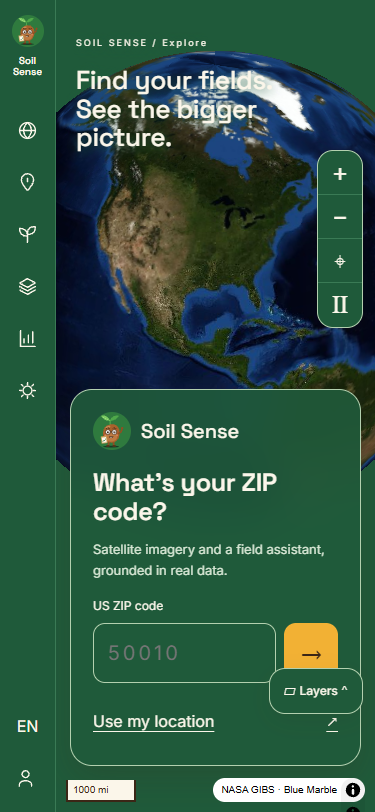
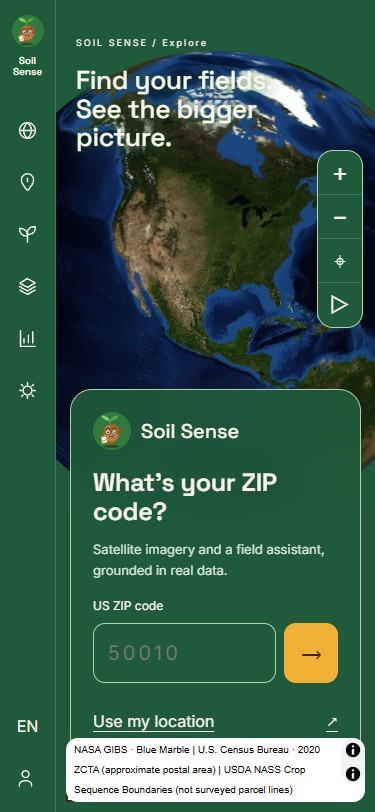
fix: harden explore navigation, demo translations, and reduced motion

diff --git a/web/src/components/explore/ExploreMap.tsx b/web/src/components/explore/ExploreMap.tsx
@@ -118,7 +118,7 @@ export function ExploreMap(props: Props) {
       const line = css.getPropertyValue("--color-on-data").trim() || "white";
       const selected = css.getPropertyValue("--color-accent").trim();
       const fill = css.getPropertyValue("--color-data").trim();
-      m.addSource("fields", { type: "geojson", data: empty });
+      m.addSource("fields", { type: "geojson", data: empty, attribution: 'USDA NASS Crop Sequence Boundaries (not surveyed parcel lines)' });
       m.addLayer({
         id: "field-fill",
         type: "fill",
@@ -147,7 +147,7 @@ export function ExploreMap(props: Props) {
           ],
         },
       });
-      m.addSource("zip", { type: "geojson", data: empty });
+      m.addSource("zip", { type: "geojson", data: empty, attribution: 'U.S. Census Bureau · 2020 ZCTA (approximate postal area)' });
       m.addLayer({
         id: "zip-line",
         type: "line",
@@ -172,6 +172,11 @@ export function ExploreMap(props: Props) {
       latest.current.onReady(m);
     });
     const stop = () => latest.current.onInteract();
+    const container = el.current;
+    container.addEventListener('keydown', stop);
+    const motion = window.matchMedia('(prefers-reduced-motion: reduce)');
+    const onMotion = () => { if (motion.matches) m.stop(); };
+    motion.addEventListener('change', onMotion);
     m.on("mousedown", stop);
     m.on("touchstart", stop);
     m.on("wheel", stop);
@@ -190,6 +195,8 @@ export function ExploreMap(props: Props) {
       }
     }, 2200);
     return () => {
+      container.removeEventListener('keydown', stop);
+      motion.removeEventListener('change', onMotion);
       resize.disconnect();
       clearInterval(spin);
       latest.current.onReady(null);
@@ -203,7 +210,7 @@ export function ExploreMap(props: Props) {
   useEffect(() => {
     const m = map.current;
     if (!m) return;
-    const apply = () => {
+    const apply = (animate = true) => {
       const p = props.location;
       const camera = p
         ? {
@@ -221,11 +228,15 @@ export function ExploreMap(props: Props) {
               right: window.innerWidth > 700 ? 400 : 0,
             },
           };
-      if (window.matchMedia("(prefers-reduced-motion: reduce)").matches)
+      if (!p || !animate || window.matchMedia("(prefers-reduced-motion: reduce)").matches)
         m.jumpTo(camera);
       else m.flyTo({ ...camera, duration: 2400, essential: false });
     };
     apply();
+    const breakpoint = window.matchMedia('(max-width: 700px)');
+    const onBreakpoint = () => { if (!props.location) apply(false); };
+    breakpoint.addEventListener('change', onBreakpoint);
+    return () => breakpoint.removeEventListener('change', onBreakpoint);
   }, [props.location]);
   useEffect(() => {
     const m = map.current;

diff --git a/web/src/Shell.explore.test.ts b/web/src/Shell.explore.test.ts
@@ -1,0 +1,22 @@
+// @vitest-environment happy-dom
+import { act, createElement } from 'react';
+import { createRoot } from 'react-dom/client';
+import { afterEach, expect, it, vi } from 'vitest';
+import { Shell } from './Shell';
+vi.mock('./auth',()=>({getMe:async()=>null,SIGNED_OUT_EVENT:'signed-out',signOut:async()=>{}}));
+vi.mock('./App',()=>({App:()=>createElement('div',{'data-testid':'existing-planner'},'Existing planner')}));
+vi.mock('./pages/ExplorePage',()=>({ExplorePage:()=>createElement('div',{'data-testid':'explore'},'Explore')}));
+Object.assign(globalThis,{IS_REACT_ACT_ENVIRONMENT:true});
+afterEach(()=>{vi.unstubAllGlobals();localStorage.clear();window.location.hash='';});
+it.each([{flag:false,hash:'#/',planner:true},{flag:true,hash:'#/',planner:false},{flag:true,hash:'#/planner',planner:true}])('gates the real Shell root for $flag at $hash',async({flag,hash,planner})=>{
+ window.location.hash=hash;
+ vi.stubGlobal('fetch',vi.fn().mockResolvedValue({ok:true,json:async()=>({exploreLanding:flag})}));
+ const el=document.createElement('div');document.body.append(el);const root=createRoot(el);
+ try{
+  await act(async()=>{root.render(createElement(Shell));await new Promise(r=>setTimeout(r,10));});
+  await act(async()=>{window.dispatchEvent(new Event('hashchange'));await new Promise(r=>setTimeout(r,10));});
+  expect(el.querySelector('[data-testid="existing-planner"]')!==null).toBe(planner);
+  expect(el.querySelector('[data-testid="explore"]')!==null).toBe(!planner);
+  expect(window.location.hash).toBe(flag&&hash==='#/'?'#/explore':hash);
+ }finally{await act(async()=>root.unmount());el.remove();}
+});

diff --git a/web/src/pages/DemoFarmsPage.tsx b/web/src/pages/DemoFarmsPage.tsx
@@ -3,6 +3,6 @@ import { ExploreRail } from '../components/explore/ExploreRail';
 import { useI18n } from '../i18n';
 import './explore.css';
 export function DemoFarmsPage(){
-  const {t}=useI18n();
-  return <main id="content" tabIndex={-1} className="demo-page"><ExploreRail/><div className="demo-content"><a href="#/explore">← {t('Back to globe')}</a><h1>{t('Explore a working field')}</h1><p>{t('Four example locations. Choose one to explore real imagery and available USDA boundaries.')}</p><div className="demo-grid">{DEMO_FARMS.map(f=><a className="demo-card" key={f.name} href={`#/explore?${new URLSearchParams({lat:String(f.lat),lon:String(f.lon),label:f.name})}`}><small>{f.lat.toFixed(4)}°, {f.lon.toFixed(4)}°</small><h2>{t(f.name as Parameters<typeof t>[0])}</h2><p>{t(f.note as Parameters<typeof t>[0])}</p><span>{t('Explore location')} →</span></a>)}</div></div></main>;
+  const {t,text}=useI18n();
+  return <main id="content" tabIndex={-1} className="demo-page"><ExploreRail/><div className="demo-content"><a href="#/explore">← {t('Back to globe')}</a><h1>{t('Explore a working field')}</h1><p>{t('Four example locations. Choose one to explore real imagery and available USDA boundaries.')}</p><div className="demo-grid">{DEMO_FARMS.map(f=><a className="demo-card" key={f.name} href={`#/explore?${new URLSearchParams({lat:String(f.lat),lon:String(f.lon),label:f.name})}`}><small>{f.lat.toFixed(4)}°, {f.lon.toFixed(4)}°</small><h2>{text(f.name)}</h2><p>{text(f.note)}</p><span>{t('Explore location')} →</span></a>)}</div></div></main>;
 }

diff --git a/web/src/pages/DemoFarmsPage.test.ts b/web/src/pages/DemoFarmsPage.test.ts
@@ -1,0 +1,21 @@
+// @vitest-environment happy-dom
+import { act, createElement } from 'react';
+import { createRoot } from 'react-dom/client';
+import { expect,it } from 'vitest';
+import { LanguageProvider, LANGUAGE_STORAGE_KEY } from '../i18n';
+import { DemoFarmsPage } from './DemoFarmsPage';
+Object.assign(globalThis,{IS_REACT_ACT_ENVIRONMENT:true});
+it.each(['en','es'] as const)('lists all four original farms with valid Explore links in %s',async language=>{
+ localStorage.setItem(LANGUAGE_STORAGE_KEY,language);
+ const el=document.createElement('div');document.body.append(el);const root=createRoot(el);
+ try{
+  await act(async()=>root.render(createElement(LanguageProvider,null,createElement(DemoFarmsPage))));
+  expect(el.querySelectorAll('.demo-card')).toHaveLength(4);
+  expect(el.textContent).toContain('Story County, Iowa');
+  for(const card of el.querySelectorAll<HTMLAnchorElement>('.demo-card')){
+   expect(card.hash).toMatch(/^#\/explore\?lat=/);
+   const params=new URLSearchParams(card.hash.split('?')[1]);expect(Number.isFinite(Number(params.get('lat')))).toBe(true);
+  }
+  expect(el.textContent).toContain(language==='es'?'secano':'rain-fed');
+ }finally{await act(async()=>root.unmount());el.remove();localStorage.clear();}
+});

diff --git a/web/src/i18n-explore.ts b/web/src/i18n-explore.ts
@@ -1,4 +1,8 @@
 export const exploreMessages = {
+  "Clarion loam · Corn Belt, rain-fed": "Franco Clarion · Cinturón del Maíz, secano",
+  "Elburn silt loam · rain-fed": "Franco limoso Elburn · secano",
+  "Center-pivot field · High Plains, irrigated": "Parcela con pivote central · Grandes Llanuras, regadío",
+  "Nodaway silt loam · rain-fed": "Franco limoso Nodaway · secano",
   "Cancel": "Cancelar",
   "Explore": "Explorar",
   "Demo farms": "Granjas de ejemplo",

diff --git a/web/src/pages/explore.css b/web/src/pages/explore.css
@@ -383,6 +383,7 @@
   }
 }
 @media (max-width: 700px) {
+  .is-globe .explore-layers:not(:has(section)) { display: none; }
   .explore-rail {
     width: 56px;
     padding: 14px 5px;
